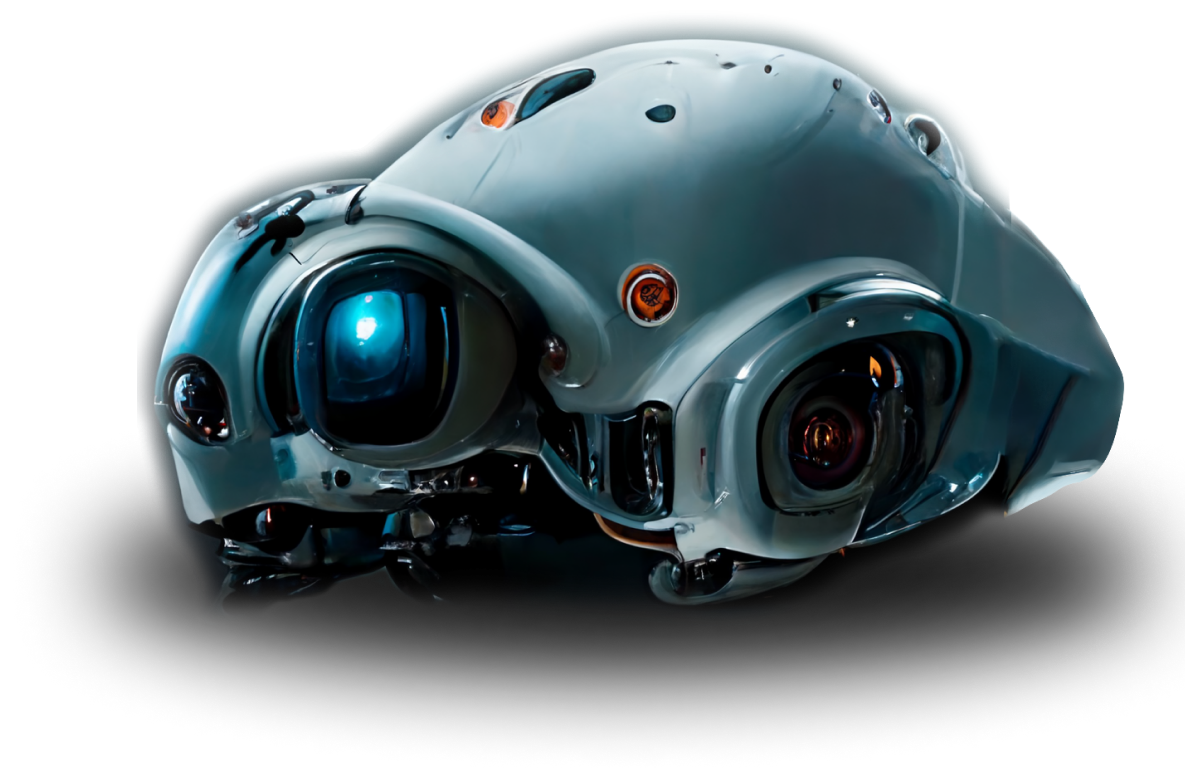
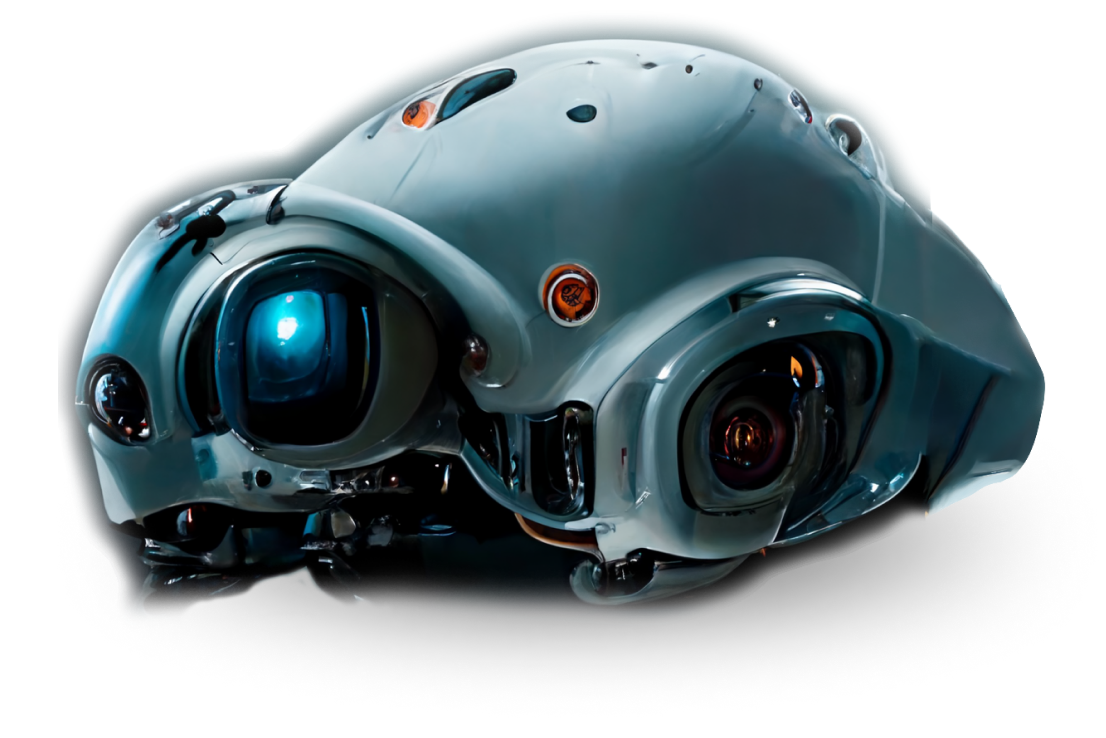
fix plroblems

diff --git a/src/index.html b/src/index.html
@@ -47,7 +47,7 @@
                         <button class="button more-detailed"><a href="#">Подробнее</a></button>
                     </div>
                 </div>
-                <!-- <img class="main__robot-img" src="img/робот.png" alt="робот"> -->
+                <img class="main__robot-img" src="img/робот.png" alt="робот">
             </div>
         </div>
     </section>
@@ -121,7 +121,7 @@
                 <div class="results__sub-title">Здесь таблица и картинка показывает результаты эмуляции торговли <br>
                     робота за 4,5 года и это впечатляет!
                 </div>
-                <!-- <img class="results__robot" src="img/робот-летающий.png" alt="робот-летающий"> -->
+                <img class="results__robot" src="img/робот-летающий.png" alt="робот-летающий">
                 <div class="results__table">
                     <img src="img/таблица.png" alt="таблица">
                 </div>
@@ -201,42 +201,44 @@
     <section class="road-map">
         <div class="container">
             <div class="road-map__title"></div>
-            <img  src="" alt="">
+            <div class="road-map__sity">
+                <img src="img/sity.png" alt="">
+            </div>
             <div class="road-map__years-wrapper">
                 <div class="road-map__item">
                     <img class="road-map__crystal" src="img/кристал.png" alt="кристал">
                     <div class="road-map__year">2019</div>
-                    <div class="road-map__descr recolor-text">Начало <br> разработки</div>
+                    <div class="road-map__descr recolor-text">начало <br> разработки</div>
                     <button class="road-map__open" id="open"><img src="img/стрелка.png" alt=""></button>
                 </div>
                 <div class="road-map__item">
                     <img class="road-map__crystal" src="img/кристал.png" alt="кристал">
-                    <div class="road-map__year">2019</div>
-                    <div class="road-map__descr recolor-text">Начало <br> разработки</div>
+                    <div class="road-map__year">2020</div>
+                    <div class="road-map__descr recolor-text">применение <br> нейронных сетей</div>
                     <button class="road-map__open" id="open"><img src="img/стрелка.png" alt=""></button>
                 </div>
                 <div class="road-map__item">
                     <img class="road-map__crystal" src="img/кристал.png" alt="кристал">
-                    <div class="road-map__year">2019</div>
-                    <div class="road-map__descr recolor-text">Начало <br> разработки</div>
+                    <div class="road-map__year">2021</div>
+                    <div class="road-map__descr recolor-text">получен опытный <br> рабочий комплекс</div>
                     <button class="road-map__open" id="open"><img src="img/стрелка.png" alt=""></button>
                 </div>
                 <div class="road-map__item">
                     <img class="road-map__crystal" src="img/кристал.png" alt="кристал">
-                    <div class="road-map__year">2019</div>
-                    <div class="road-map__descr recolor-text">Начало <br> разработки</div>
+                    <div class="road-map__year">2022</div>
+                    <div class="road-map__descr recolor-text">разработка <br> рабочей версии</div>
                     <button class="road-map__open" id="open"><img src="img/стрелка.png" alt=""></button>
                 </div>
                 <div class="road-map__item">
                     <img class="road-map__crystal" src="img/кристал.png" alt="кристал">
-                    <div class="road-map__year">2019</div>
-                    <div class="road-map__descr recolor-text">Начало <br> разработки</div>
+                    <div class="road-map__year">2023</div>
+                    <div class="road-map__descr recolor-text">начало <br> продаж</div>
                     <button class="road-map__open" id="open"><img src="img/стрелка.png" alt=""></button>
                 </div>
                 <div class="road-map__item">
                     <img class="road-map__crystal" src="img/кристал.png" alt="кристал">
-                    <div class="road-map__year">2019</div>
-                    <div class="road-map__descr recolor-text">Начало <br> разработки</div>
+                    <div class="road-map__year">2024</div>
+                    <div class="road-map__descr recolor-text">проведение <br> IDO</div>
                     <button class="road-map__open" id="open"><img src="img/стрелка.png" alt=""></button>
                 </div>
             </div>

diff --git a/src/css/style.css b/src/css/style.css
@@ -126,9 +126,9 @@ body {
 }
 .main__robot-img {
   position: absolute;
-  top: 300px;
-  right: -170px;
-  width: 1000px;
+  top: 350px;
+  right: -140px;
+  width: 800px;
 }
 .main__title {
   font-size: 40px;
@@ -297,7 +297,7 @@ body {
 .results__robot {
   position: absolute;
   top: 0;
-  right: -170px;
+  right: 0;
   z-index: -1;
 }
 .results__button {
@@ -461,16 +461,20 @@ body {
   line-height: 30px;
 }
 
+.road-map {
+  padding: 30px;
+}
 .road-map__years-wrapper {
   display: flex;
   justify-content: space-between;
 }
 .road-map__item {
   border: 1px solid #FFF;
-  width: 155px;
+  width: 15%;
   text-align: center;
 }
 .road-map__crystal {
+  cursor: pointer;
   margin-bottom: 35px;
 }
 .road-map__year {
@@ -491,14 +495,14 @@ body {
   font-style: normal;
   font-weight: 400;
   line-height: 20px; /* 100% */
-  text-transform: lowercase;
   margin-bottom: 23px;
 }
 .road-map__open {
+  cursor: pointer;
   background-image: linear-gradient(91deg, rgba(5, 218, 201, 0.41) -3.66%, rgba(0, 143, 163, 0.2) 49.48%, rgba(0, 174, 164, 0.38) 100.28%);
   background-color: rgba(2, 130, 133, 0.25);
   border: 2px solid #00D6DA;
-  border-radius: 5px;
+  border-radius: 12px 8px;
   width: 110px;
   height: 30px;
 }

diff --git a/src/sass/blocks/_road-map.scss b/src/sass/blocks/_road-map.scss
@@ -1,16 +1,21 @@
 .road-map{
+    padding: 30px;
+    &__sity{
+        
+    }
     &__years-wrapper{
         display: flex;
         justify-content: space-between;
     }
     &__item{
         border: 1px solid #FFF;
-        width: 155px;
+        width: 15%;
         text-align: center;
         
     }
     &__crystal{
-            margin-bottom: 35px;
+        cursor: pointer;
+        margin-bottom: 35px;
     }
     &__year{
         color: #FFF;
@@ -30,14 +35,14 @@
         font-style: normal;
         font-weight: 400;
         line-height: 20px; /* 100% */
-        text-transform: lowercase;
         margin-bottom: 23px;
     }
     &__open{
+        cursor: pointer;
         background-image: linear-gradient(91deg, rgba(5, 218, 201, 0.41) -3.66%, rgba(0, 143, 163, 0.20) 49.48%, rgba(0, 174, 164, 0.38) 100.28%);
         background-color: rgba(2, 130, 133, 0.25);
         border: 2px solid #00D6DA;
-        border-radius: 5px;
+        border-radius: 12px 8px;
         width: 110px;
         height: 30px;
         img{

diff --git a/src/sass/blocks/_main.scss b/src/sass/blocks/_main.scss
@@ -6,9 +6,9 @@
     }
     &__robot-img{
         position: absolute;
-        top: 300px;
-        right: -170px;
-        width: 1000px;
+        top: 350px;
+        right: -140px;
+        width: 800px;
     }
     &__title{
         font-size: 40px;

diff --git a/src/sass/blocks/_results.scss b/src/sass/blocks/_results.scss
@@ -51,7 +51,7 @@
     &__robot{
         position: absolute;
         top: 0;
-        right: -170px;
+        right: 0;
         z-index: -1;
     }
     &__button{
